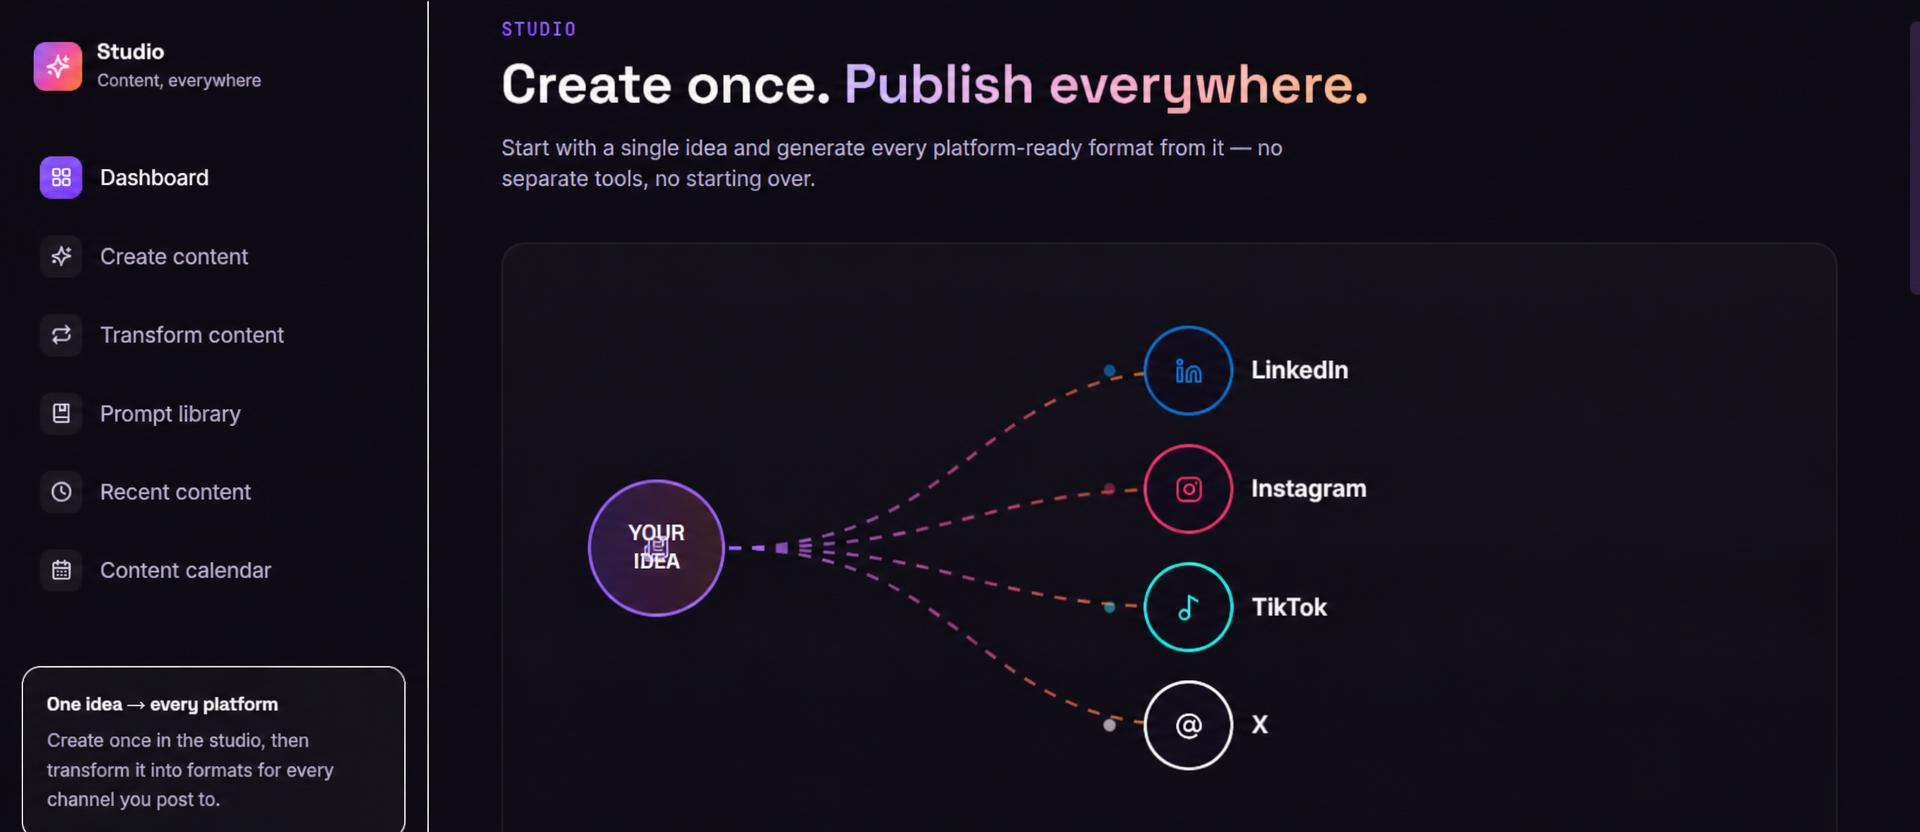
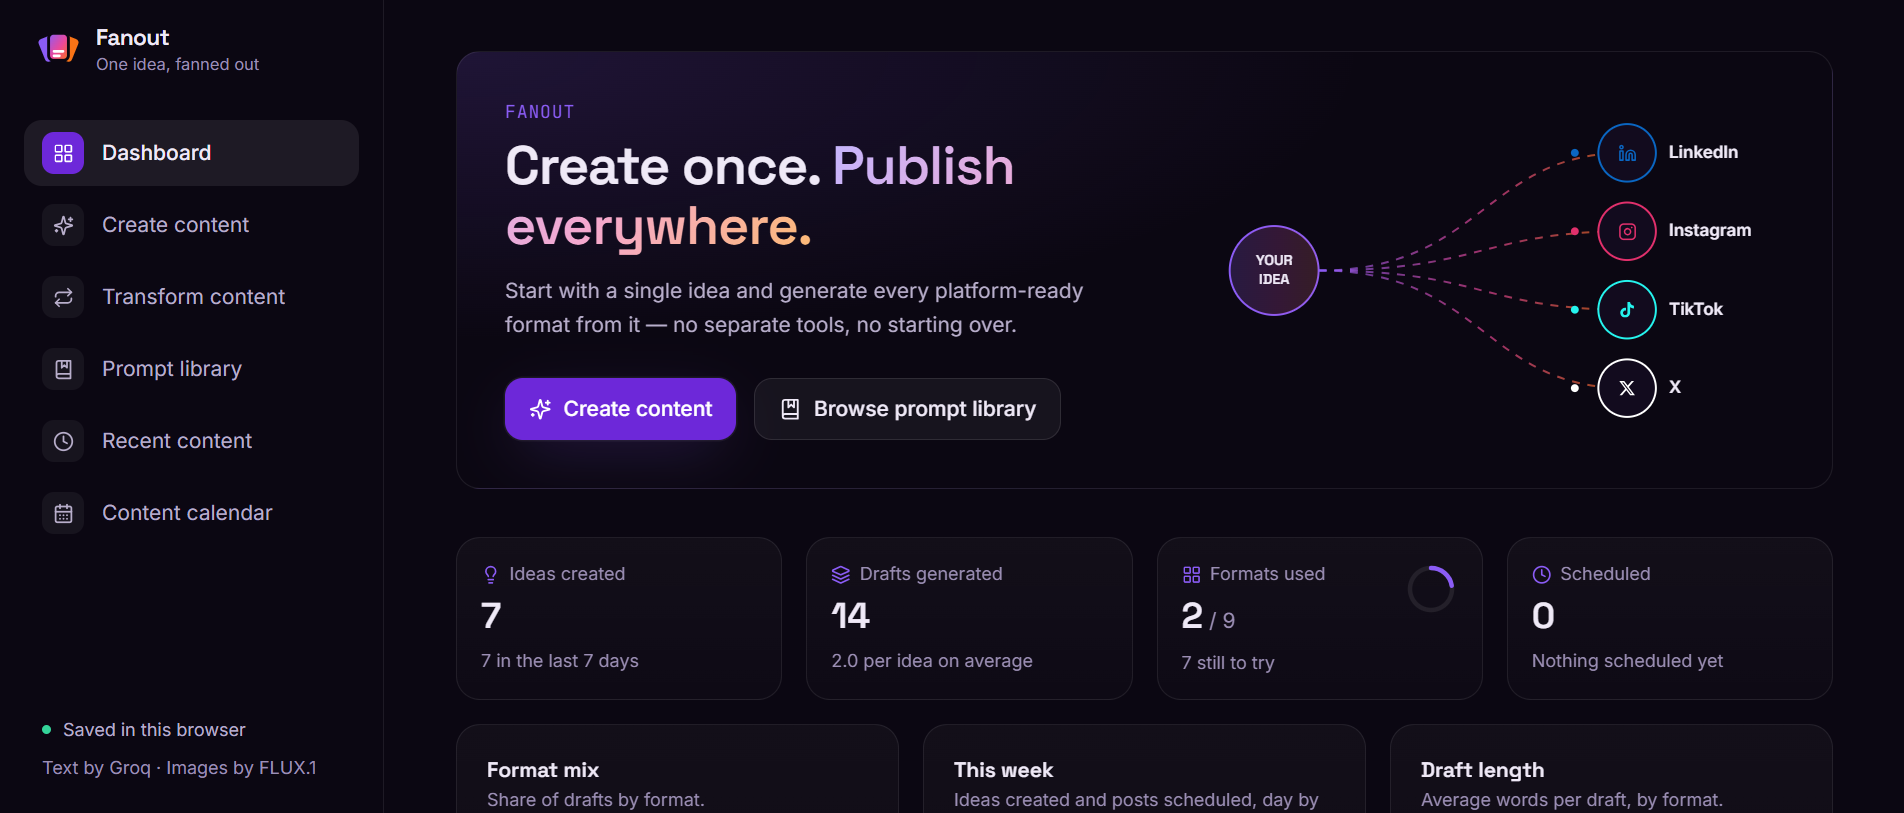
Refactor code structure for improved readability and maintainability

diff --git a/lib/data.ts b/lib/data.ts
@@ -103,19 +103,19 @@ export const PROJECTS = [
 
   {
     id: 4,
-    title: 'Social Media Content Studio',
+    title: 'Fanout',
     description:
-      'An AI-powered content creation suite that transforms single ideas into multi-platform formats including LinkedIn posts, Instagram captions, TikTok scripts, X posts, and content calendars.',
-    tags: ['React', 'Next.js', 'TypeScript', 'Google Gemini', 'Groq AI', 'Tailwind CSS'],
+      'An AI-powered content platform that fans one idea out into platform-ready content — LinkedIn posts, Instagram captions, TikTok scripts, X posts, blog articles, promo copy, and hashtags — with a built-in prompt library and content calendar.',
+    tags: ['React', 'TypeScript', 'Vite', 'Groq AI', 'Vercel Functions', 'Tailwind CSS'],
     category: 'AI / Web Application',
     accent: '#EC4899',
-    github: 'https://github.com/kavierjogie/social-media-content-studio',
-    demo: 'https://social-media-content-studio-ys32.vercel.app/',
-    image: '/projects/social-media-content-studio.png',
+    github: 'https://github.com/kavierjogie/fanout-studio',
+    demo: 'https://fanout-studio.vercel.app/',
+    image: '/projects/fanout.png',
     details: {
-      overview: 'Empowers creators and marketers by turning one seed idea into tailored, platform-ready copy across LinkedIn, Instagram, TikTok, X, and blogs, complete with a built-in content calendar and prompt library.',
-      architecture: 'Built with React, Next.js, and TypeScript styled with Tailwind CSS. Features a multi-provider AI engine leveraging Google Gemini (gemini-2.5-flash) as primary provider with automatic fallback to Groq LLMs (Llama 3.1) and client-side key storage.',
-      challenges: 'Engineered automatic API failover logic between Gemini and Groq model endpoints, with dynamic model selection and prompt optimization for consistent tone across diverse social platforms.',
+      overview: 'Fanout helps creators and marketers turn a single idea into tailored content for every platform. The workflow runs topic → platforms → tone → output, and users can transform existing posts into new formats, start from a categorised prompt library, browse and edit past content, schedule it on a content calendar, and track activity on a dashboard.',
+      architecture: 'A React 18 + TypeScript single-page app built with Vite and styled with Tailwind CSS. Generation runs through a Vercel serverless function that calls the Groq API (openai/gpt-oss-20b by default, configurable via environment variable), so the API key never reaches the browser. Generated content is persisted client-side in localStorage, and platform metadata and prompt templates live in a dedicated data layer, which makes adding new platforms simple.',
+      challenges: 'Writing per-platform prompting rules that keep one consistent voice while meeting each platform\'s format, length, and hashtag conventions. Moving AI calls behind a server-side route to secure credentials without slowing down the client, and designing a lightweight local persistence model that supports search, filtering, editing, and calendar scheduling without a backend database.',
     }
   },
 
